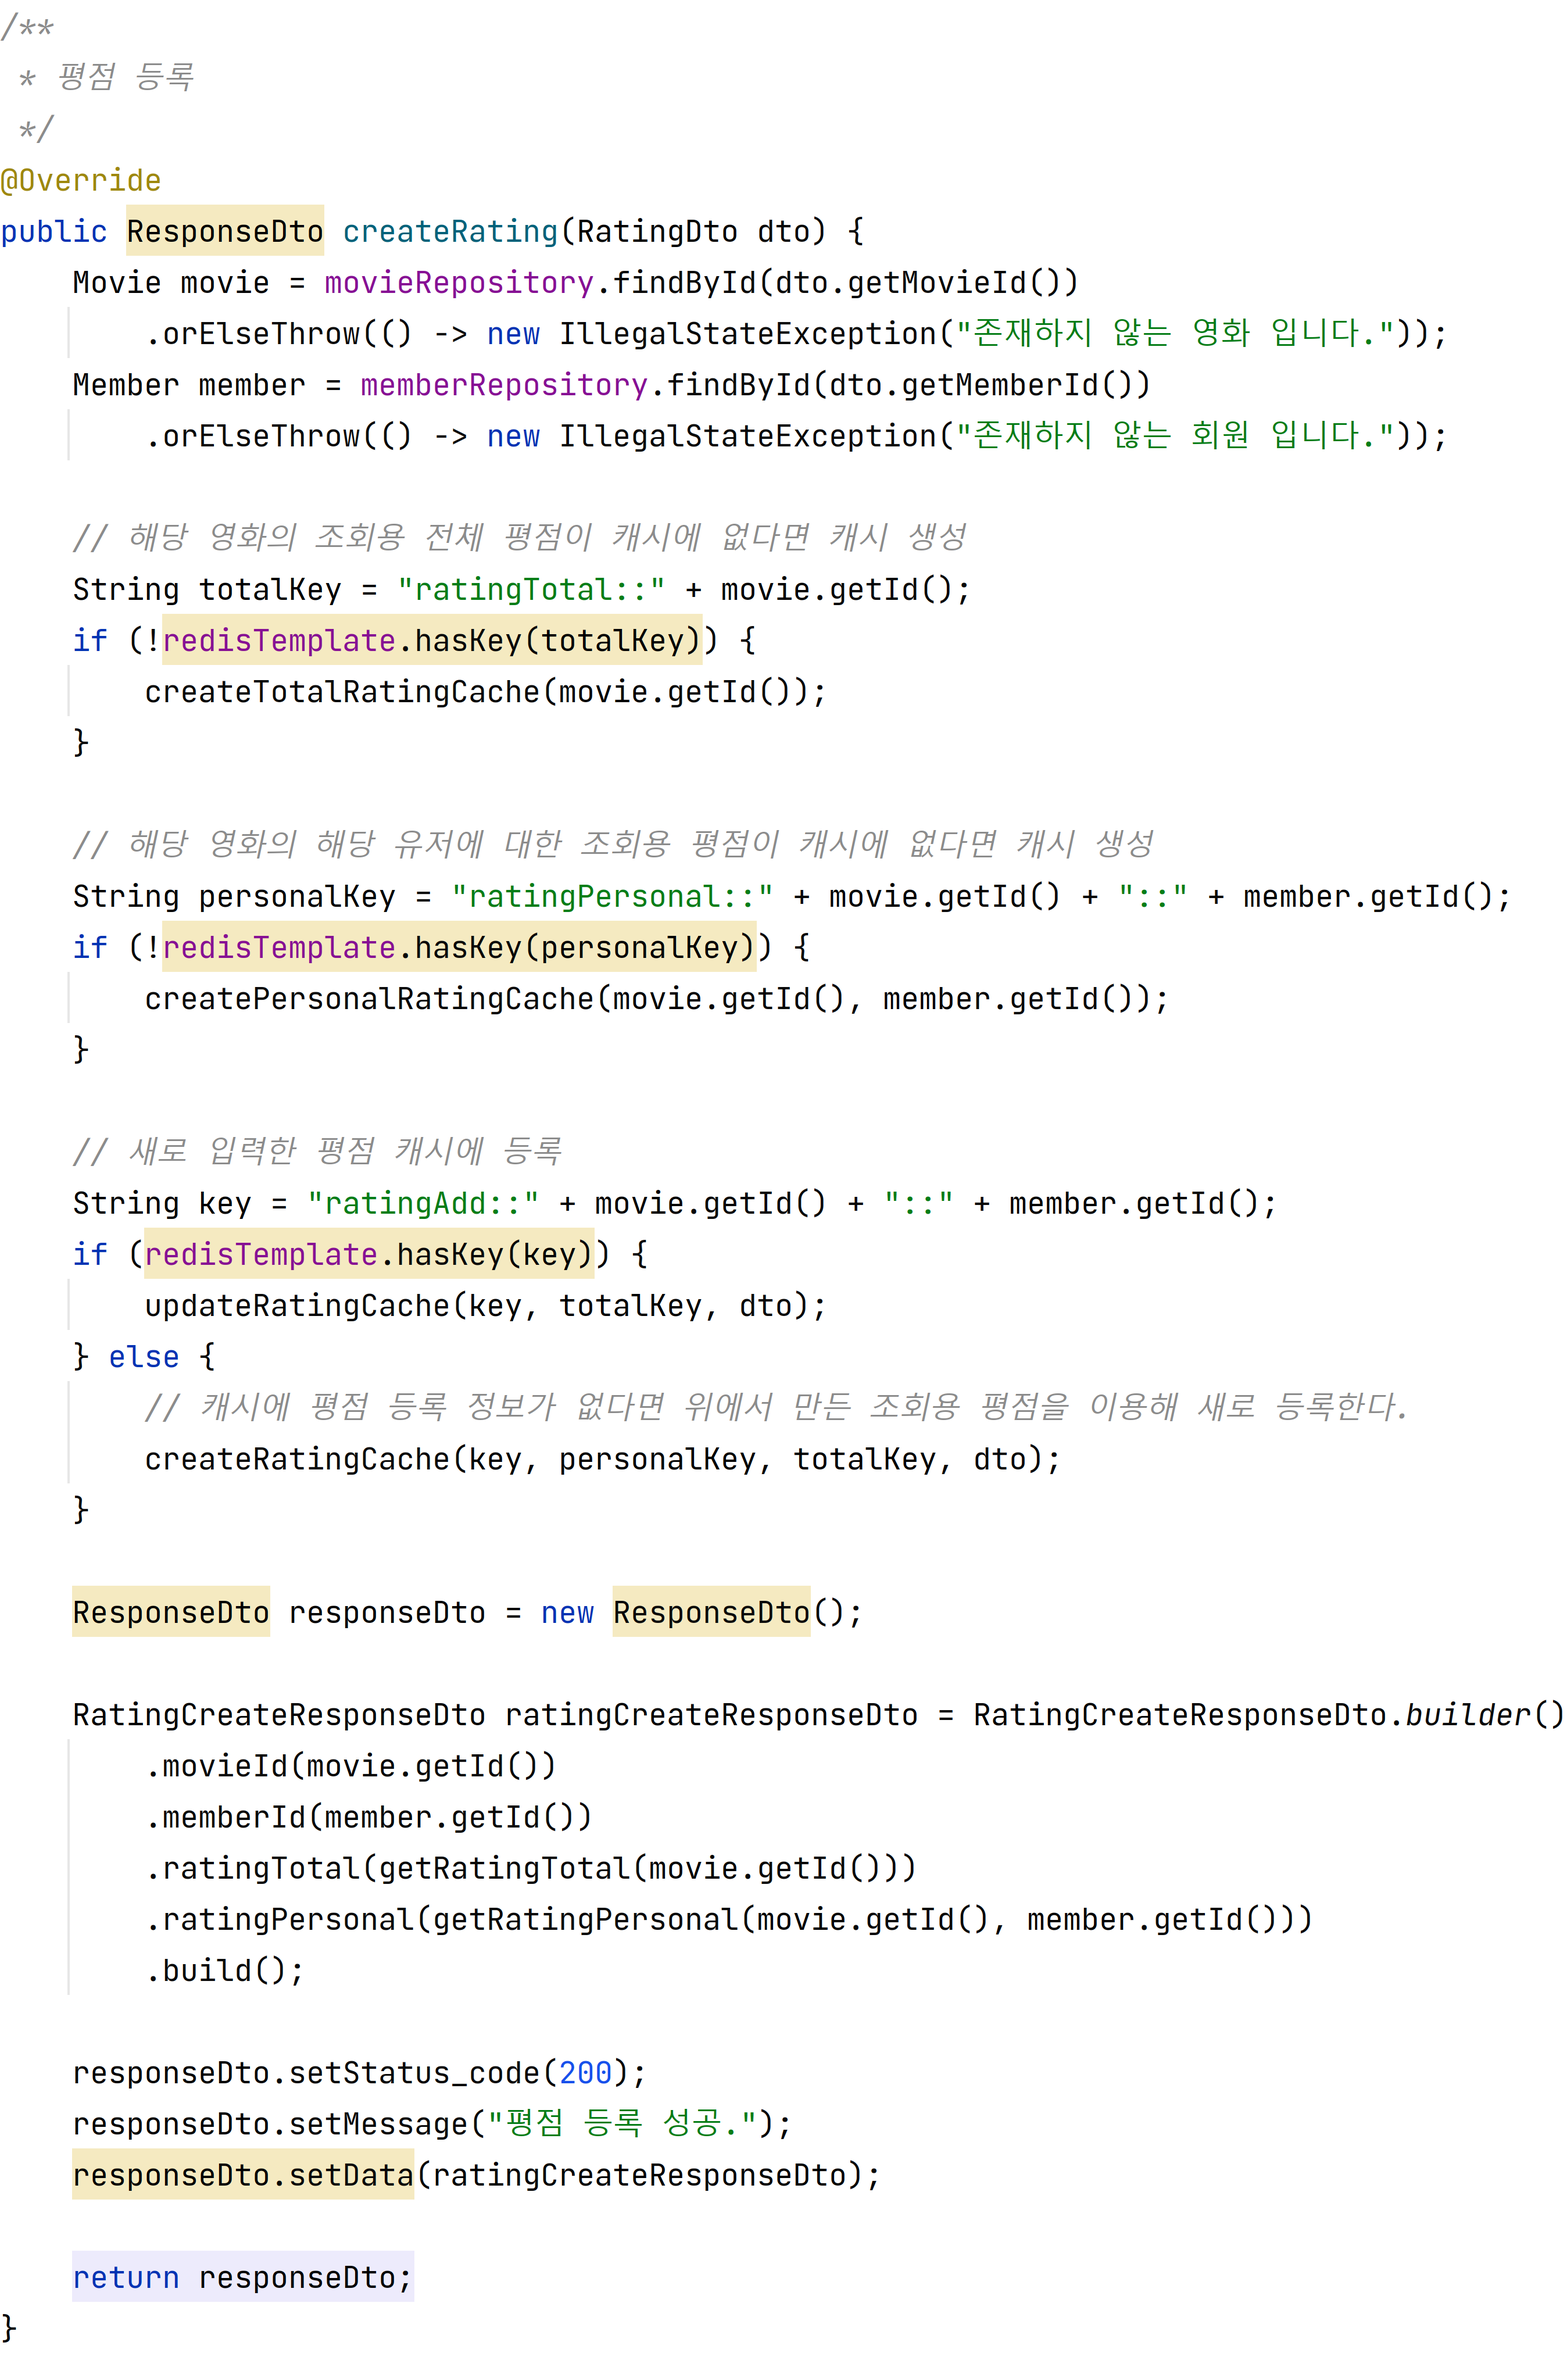
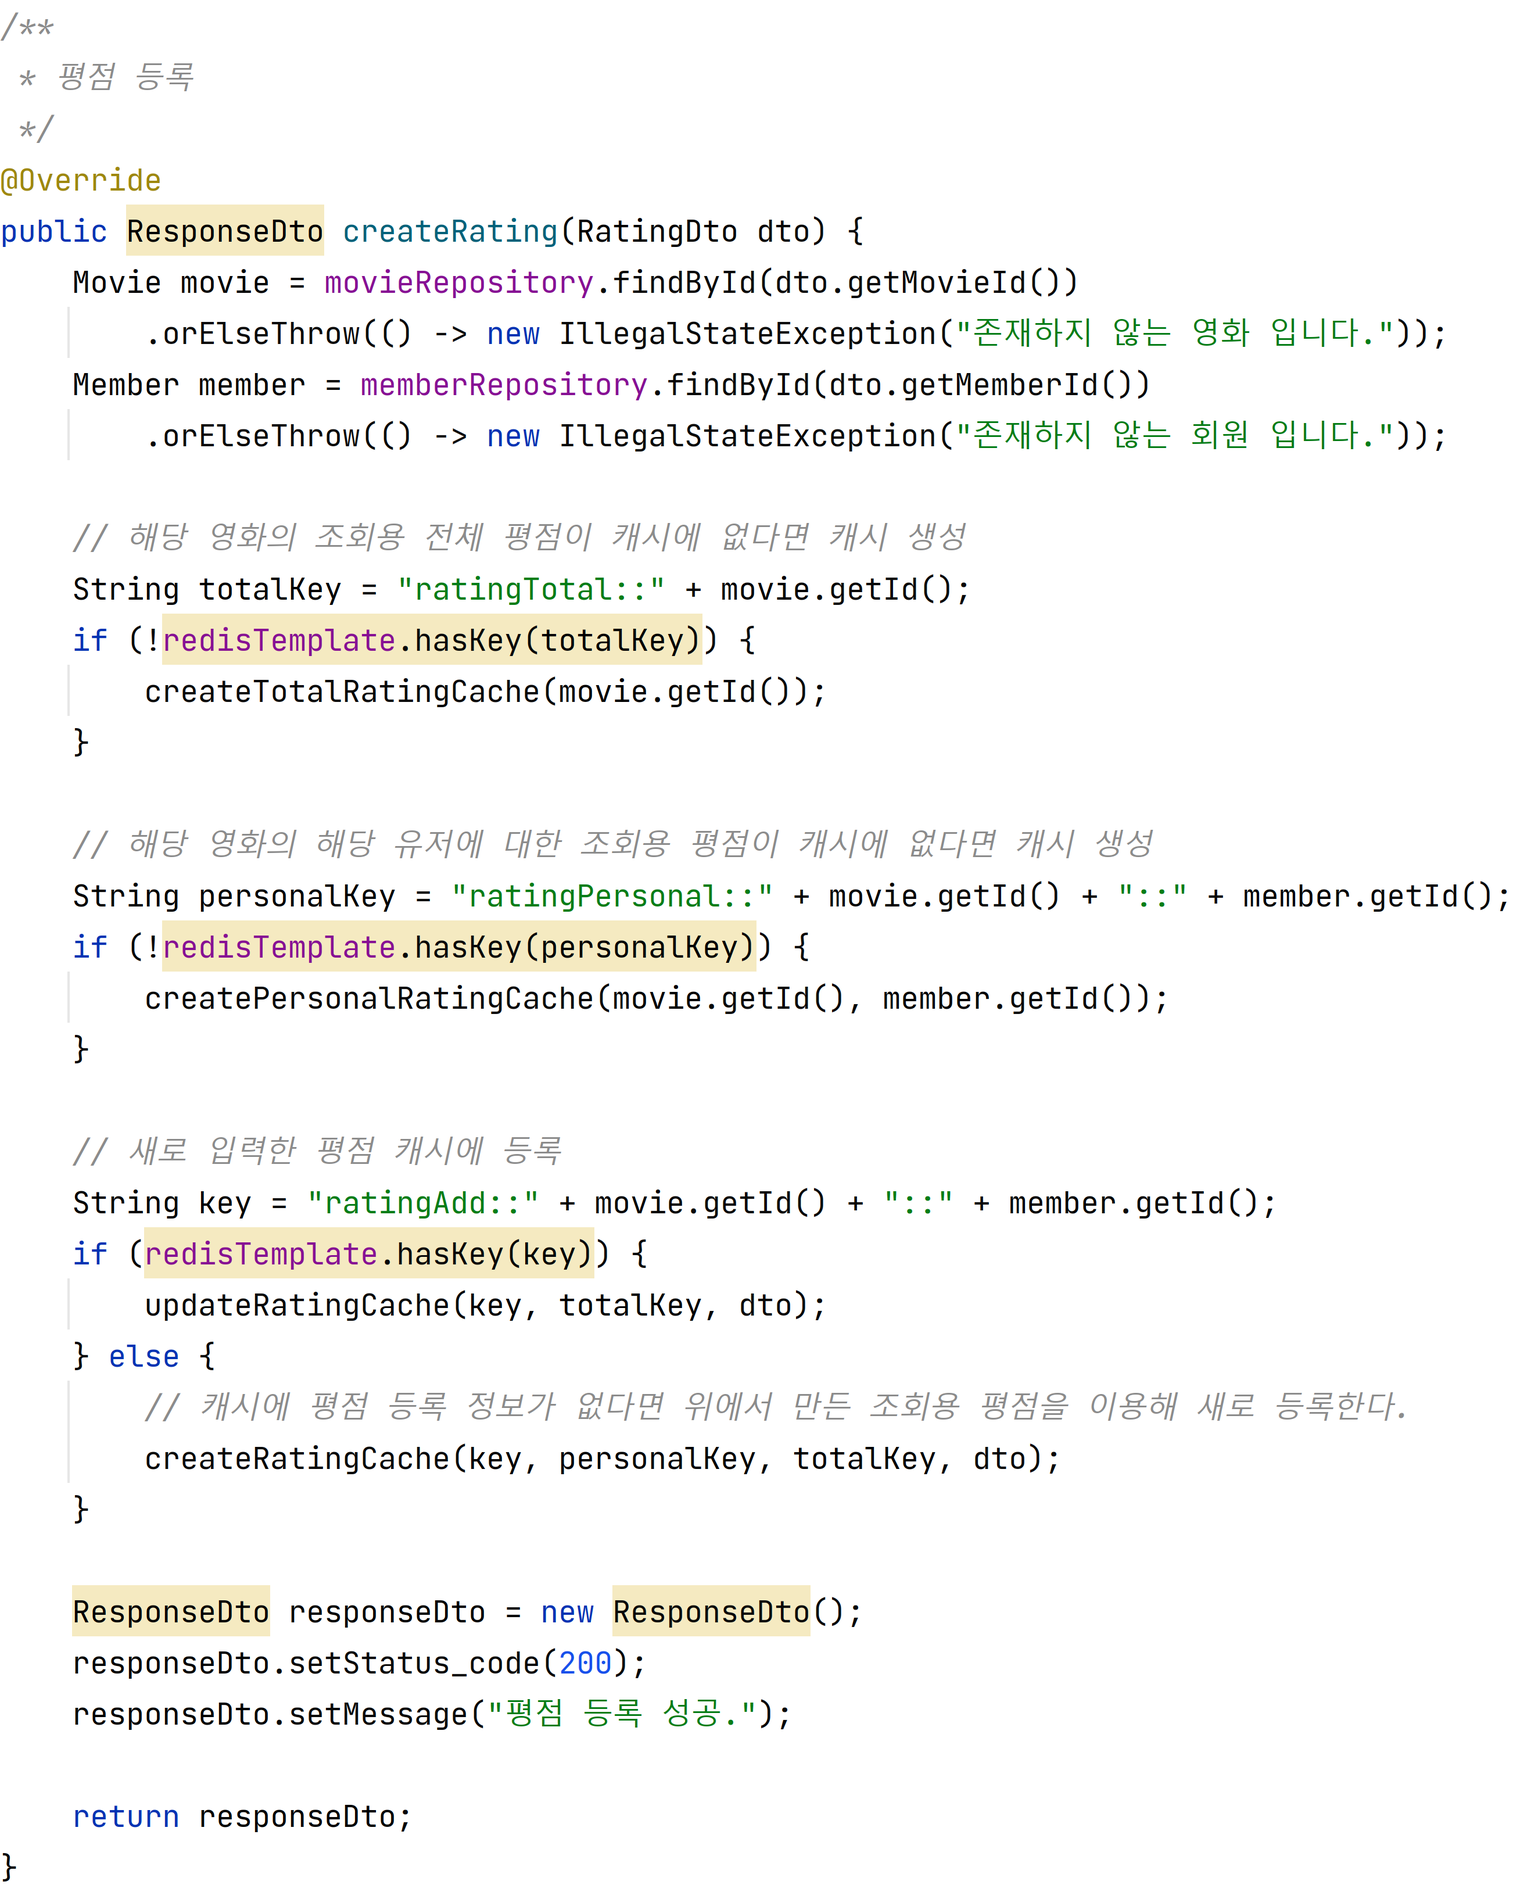
[Feat] 평점 조회

diff --git a/BackEnd/pjt1/src/main/java/moonrise/pjt1/rating/service/RatingServiceImpl.java b/BackEnd/pjt1/src/main/java/moonrise/pjt1/rating/service/RatingServiceImpl.java
@@ -5,11 +5,12 @@ import moonrise.pjt1.member.entity.Member;
 import moonrise.pjt1.member.repository.MemberRepository;
 import moonrise.pjt1.movie.entity.Movie;
 import moonrise.pjt1.movie.repository.MovieRepository;
-import moonrise.pjt1.rating.dto.RatingCreateResponseDto;
 import moonrise.pjt1.rating.dto.RatingDto;
+import moonrise.pjt1.rating.dto.RatingResponseDto;
 import moonrise.pjt1.rating.entity.RatingEntity;
 import moonrise.pjt1.rating.repository.RatingCustomRepository;
 import moonrise.pjt1.rating.repository.RatingRepository;
+import moonrise.pjt1.rating.request.RatingFindReq;
 
 import org.springframework.beans.factory.annotation.Autowired;
 import org.springframework.data.redis.core.ListOperations;
@@ -70,22 +71,50 @@ public class RatingServiceImpl implements RatingService {
 		}
 
 		ResponseDto responseDto = new ResponseDto();
-
-		RatingCreateResponseDto ratingCreateResponseDto = RatingCreateResponseDto.builder()
-			.movieId(movie.getId())
-			.memberId(member.getId())
-			.ratingTotal(getRatingTotal(movie.getId()))
-			.ratingPersonal(getRatingPersonal(movie.getId(), member.getId()))
-			.build();
-
 		responseDto.setStatus_code(200);
 		responseDto.setMessage("평점 등록 성공.");
-		responseDto.setData(ratingCreateResponseDto);
 
 		return responseDto;
 	}
 
-	private RatingDto getRatingPersonal(Long movieId, Long memberId) {
+	/**
+	 * 평점 조회
+	 */
+	@Override
+	public ResponseDto findRating(RatingFindReq req) {
+		Movie movie = movieRepository.findById(req.getMovieId())
+			.orElseThrow(() -> new IllegalStateException("존재하지 않는 영화 입니다."));
+		Optional<Member> member = memberRepository.findById(req.getMemberId());
+
+		RatingResponseDto ratingResponseDto = new RatingResponseDto();
+
+		ratingResponseDto.setMovieId(movie.getId());
+		// 해당 영화의 조회용 전체 평점이 캐시에 없다면 캐시 생성
+		String totalKey = "ratingTotal::" + movie.getId();
+		if (!redisTemplate.hasKey(totalKey)) {
+			createTotalRatingCache(movie.getId());
+		}
+		ratingResponseDto.setRatingTotal(getRatingTotalFromCache(movie.getId()));
+
+		if (member.isPresent()) {
+			ratingResponseDto.setMemberId(member.get().getId());
+			// 해당 영화의 해당 유저에 대한 조회용 평점이 캐시에 없다면 캐시 생성
+			String personalKey = "ratingPersonal::" + movie.getId() + "::" + member.get().getId();
+			if (!redisTemplate.hasKey(personalKey)) {
+				createPersonalRatingCache(movie.getId(), member.get().getId());
+			}
+			ratingResponseDto.setRatingPersonal(getRatingPersonalFromCache(movie.getId(), member.get().getId()));
+		}
+
+		ResponseDto responseDto = new ResponseDto();
+		responseDto.setData(200);
+		responseDto.setMessage("평점 조회 성공");
+		responseDto.setData(ratingResponseDto);
+
+		return responseDto;
+	}
+
+	private RatingDto getRatingPersonalFromCache(Long movieId, Long memberId) {
 		ListOperations listOperations = redisTemplate.opsForList();
 		String key = "ratingPersonal::" + movieId + "::" + memberId;
 		List<String> ratingFromRedis = listOperations.range(key, 0, 5);
@@ -103,7 +132,7 @@ public class RatingServiceImpl implements RatingService {
 		return ratingPersonalDto;
 	}
 
-	private RatingDto getRatingTotal(Long movieId) {
+	private RatingDto getRatingTotalFromCache(Long movieId) {
 		ListOperations listOperations = redisTemplate.opsForList();
 		String key = "ratingTotal::" + movieId;
 		List<String> ratingFromRedis = listOperations.range(key, 0, 6);
@@ -122,18 +151,18 @@ public class RatingServiceImpl implements RatingService {
 	}
 
 	private void updatePersonalRatingCache(RatingDto dto) {
-        String key = "ratingPersonal::" + dto.getMovieId() + "::" + dto.getMemberId();
+		String key = "ratingPersonal::" + dto.getMovieId() + "::" + dto.getMemberId();
 
-        ListOperations listOperations = redisTemplate.opsForList();
-        listOperations.set(key, 0, dto.getStory());
-        listOperations.set(key, 1, dto.getActing());
-        listOperations.set(key, 2, dto.getDirection());
-        listOperations.set(key, 3, dto.getVisual());
-        listOperations.set(key, 4, dto.getSound());
-        listOperations.set(key, 5, dto.getTotal());
+		ListOperations listOperations = redisTemplate.opsForList();
+		listOperations.set(key, 0, dto.getStory());
+		listOperations.set(key, 1, dto.getActing());
+		listOperations.set(key, 2, dto.getDirection());
+		listOperations.set(key, 3, dto.getVisual());
+		listOperations.set(key, 4, dto.getSound());
+		listOperations.set(key, 5, dto.getTotal());
 
 		listOperations.getOperations().expire(key, Duration.ofMinutes(5));
-    }
+	}
 
 	private void createPersonalRatingCache(Long movieId, Long memberId) {
 		RatingEntity myRatingFromDB = ratingRepository.findPersonal(movieId, memberId);
@@ -150,10 +179,11 @@ public class RatingServiceImpl implements RatingService {
 			listOperations.rightPush(key, myRatingFromDB.getSound());
 			listOperations.rightPush(key, myRatingFromDB.getTotal());
 		} else {
-			listOperations.rightPushAll(key, String.valueOf(-1), String.valueOf(-1), String.valueOf(-1), String.valueOf(-1),
+			listOperations.rightPushAll(key, String.valueOf(-1), String.valueOf(-1), String.valueOf(-1),
+				String.valueOf(-1),
 				String.valueOf(-1), String.valueOf(-1));
 		}
-        listOperations.getOperations().expire(key, Duration.ofMinutes(5));
+		listOperations.getOperations().expire(key, Duration.ofMinutes(5));
 	}
 
 	private void createTotalRatingCache(long movieId) {
@@ -212,10 +242,10 @@ public class RatingServiceImpl implements RatingService {
 		listOperations.set(key, 5, dto.getTotal());
 
 		// 개인 평점을 업데이트한다.
-        updatePersonalRatingCache(dto);
+		updatePersonalRatingCache(dto);
 	}
 
-    private void createRatingCache(String key, String personalKey, String totalKey, RatingDto dto) {
+	private void createRatingCache(String key, String personalKey, String totalKey, RatingDto dto) {
 		ListOperations listOperations = redisTemplate.opsForList();
 		List<String> totalRating = listOperations.range(totalKey, 0, 6);
 		List<String> personalRating = listOperations.range(personalKey, 0, 5);
@@ -250,7 +280,7 @@ public class RatingServiceImpl implements RatingService {
 		listOperations.rightPush(key, dto.getSound());
 		listOperations.rightPush(key, dto.getTotal());
 
-        updatePersonalRatingCache(dto);
+		updatePersonalRatingCache(dto);
 	}
 
 	private String calcNewRating(List<String> myRating, List<String> totalRating, RatingDto dto, int i) {

diff --git a/BackEnd/pjt1/src/main/java/moonrise/pjt1/rating/controller/RatingController.java b/BackEnd/pjt1/src/main/java/moonrise/pjt1/rating/controller/RatingController.java
@@ -3,6 +3,7 @@ package moonrise.pjt1.rating.controller;
 import lombok.extern.slf4j.Slf4j;
 import moonrise.pjt1.commons.response.ResponseDto;
 import moonrise.pjt1.rating.dto.RatingDto;
+import moonrise.pjt1.rating.request.RatingFindReq;
 import moonrise.pjt1.rating.service.RatingService;
 import moonrise.pjt1.util.HttpUtil;
 import org.springframework.beans.factory.annotation.Autowired;
@@ -31,7 +32,14 @@ public class RatingController {
         return ResponseEntity.status(HttpStatus.OK).body(responseDto);
     }
 
-    @PostMapping("/create/{movieId}")
+    @PostMapping("/find")
+    public ResponseEntity findRating(@RequestBody RatingFindReq req) {
+        ResponseDto responseDto = ratingService.findRating(req);
+        return ResponseEntity.status(HttpStatus.OK).body(responseDto);
+    }
+
+
+    @PostMapping("/createOld/{movieId}")
     public ResponseEntity createRating(@RequestHeader HttpHeaders headers, @PathVariable long movieId, @RequestBody RatingDto ratingDto) {
         // Http Header 에서 Access-Token 받기
         String access_token = headers.get("access_token").toString();

diff --git a/BackEnd/pjt1/src/main/java/moonrise/pjt1/rating/dto/RatingResponseDto.java b/BackEnd/pjt1/src/main/java/moonrise/pjt1/rating/dto/RatingResponseDto.java
@@ -6,14 +6,14 @@ import lombok.NoArgsConstructor;
 
 @Data
 @NoArgsConstructor
-public class RatingCreateResponseDto {
+public class RatingResponseDto {
 	private Long movieId;
 	private Long memberId;
 	private RatingDto ratingTotal;
 	private RatingDto ratingPersonal;
 
 	@Builder
-	public RatingCreateResponseDto(Long movieId, Long memberId, RatingDto ratingTotal, RatingDto ratingPersonal) {
+	public RatingResponseDto(Long movieId, Long memberId, RatingDto ratingTotal, RatingDto ratingPersonal) {
 		this.memberId = memberId;
 		this.movieId = movieId;
 		this.ratingTotal = ratingTotal;

diff --git a/BackEnd/pjt1/src/main/java/moonrise/pjt1/rating/service/RatingService.java b/BackEnd/pjt1/src/main/java/moonrise/pjt1/rating/service/RatingService.java
@@ -3,11 +3,14 @@ package moonrise.pjt1.rating.service;
 import moonrise.pjt1.commons.response.ResponseDto;
 import moonrise.pjt1.rating.dto.RatingDto;
 import moonrise.pjt1.rating.entity.RatingEntity;
+import moonrise.pjt1.rating.request.RatingFindReq;
 
 import java.util.List;
 
 public interface RatingService {
 	ResponseDto createRating(RatingDto dto);
+
+    ResponseDto findRating(RatingFindReq req);
 
 	//평점 생성
     RatingEntity createRating(long movieId, long memberId, RatingDto ratingDto);

diff --git a/BackEnd/pjt1/src/main/java/moonrise/pjt1/rating/request/RatingFindReq.java b/BackEnd/pjt1/src/main/java/moonrise/pjt1/rating/request/RatingFindReq.java
@@ -1,0 +1,9 @@
+package moonrise.pjt1.rating.request;
+
+import lombok.Data;
+
+@Data
+public class RatingFindReq {
+	private Long memberId;
+	private Long movieId;
+}

diff --git a/docs/리팩토링.md b/docs/리팩토링.md
@@ -3,7 +3,7 @@
 - [리팩토링](#리팩토링)
   - [평점](#평점)
     - [평점 등록](#-평점-등록)
-    <!-- - -->
+    - [평점 조회](#-평점-조회)
   - [게시글](#게시글)
     - [게시글 좋아요](#-게시글-좋아요)
     - [게시글 상세보기](#-게시글-상세보기)
@@ -122,6 +122,22 @@ public void deleteRatingCacheFromRedis() {
     ratingRepository.saveAll(ratingList);
 }
 ```
+
+<br>
+
+### 🪕 평점 조회
+
+<img src="img/capture/평점 조회.png" width="80%"></img>
+
+'영화에 대한 평점 조회' 와 '개인 평점 조회' 으로 API가 분리되어 있었습니다.
+
+두 API를 합쳐 하나의 요청으로 반환이 가능하도록 하였습니다. 그 이유는 한 페이지에서 해당 영화와 해당 유저에 대한 평점을 같이 보여주기 떄문입니다.
+
+평점 정보를 캐시에서 조회하는데, 캐시에 없다면 캐시를 생성할 수 있도록 평점 등록을 구현할 때 만들었던 메서드를 재활용하였습니다.
+
+처음에는 평점 등록을 할 때 등록된 평점에 대한 정보도 함께 반환하려고 하였으나 읽기와 쓰기가 같은 요청에서 이루어진다면 성능상 문제가 있을 것으로 판단하여 쓰기 요청에 조회 기능을 추가하지 않았습니다.
+
+<br>
 
 ## 게시글
 
